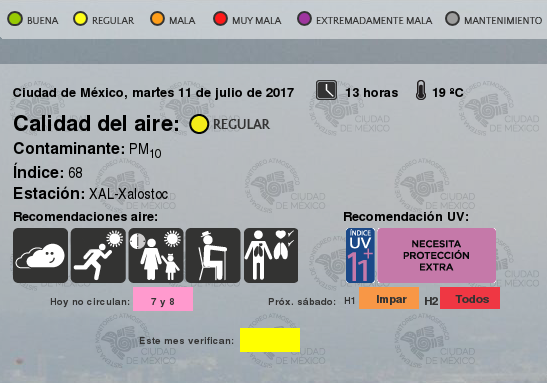
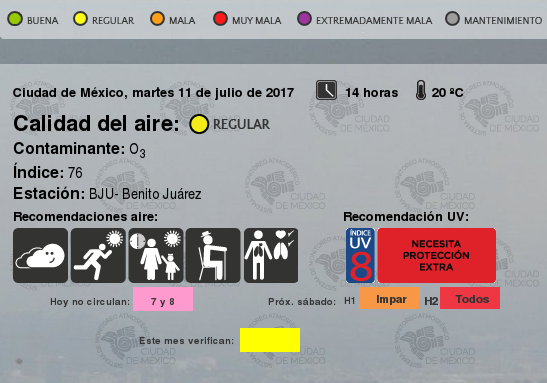
update images 11-07-2017 14:20

diff --git a/README.md b/README.md
@@ -8172,3 +8172,4 @@
 |11-07-2017 13:50
 |11-07-2017 14:03
 |11-07-2017 14:11
+|11-07-2017 14:20
